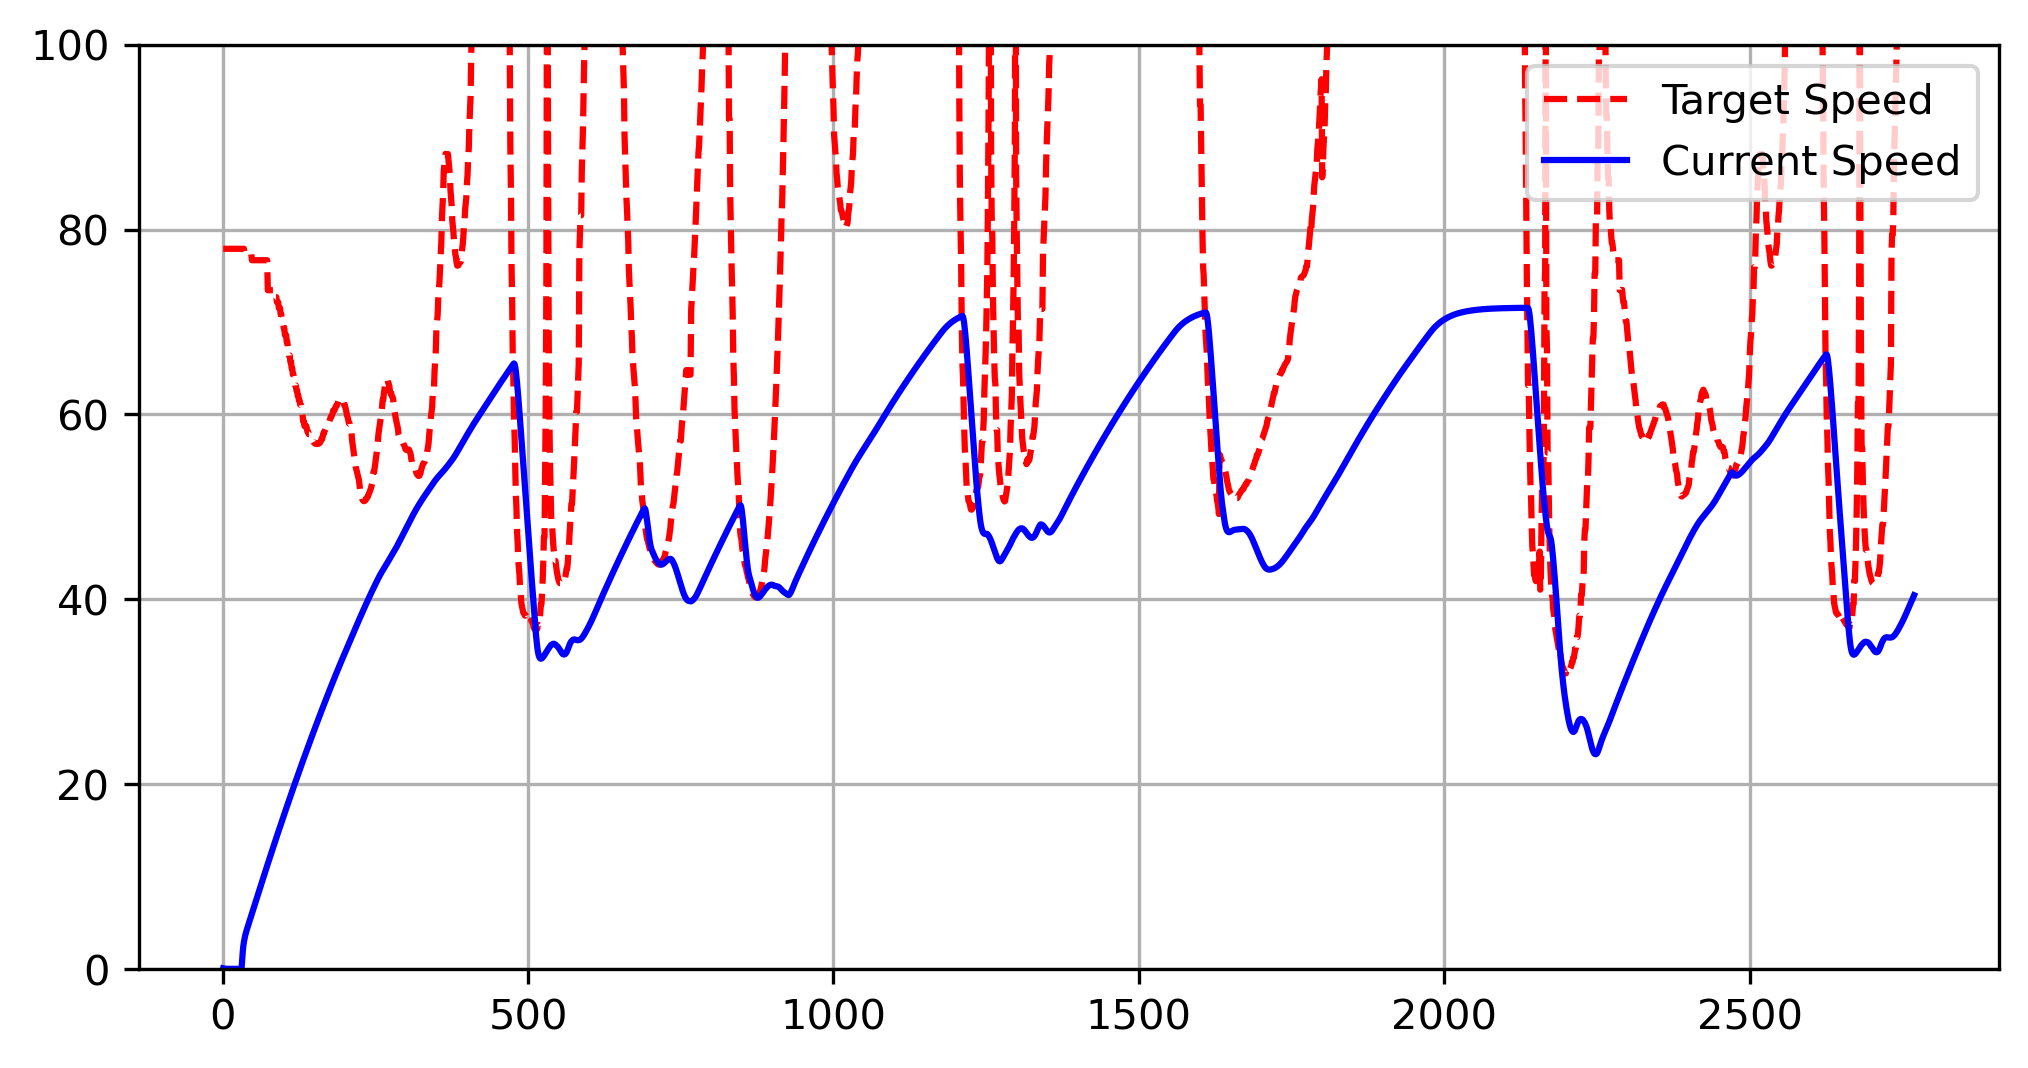
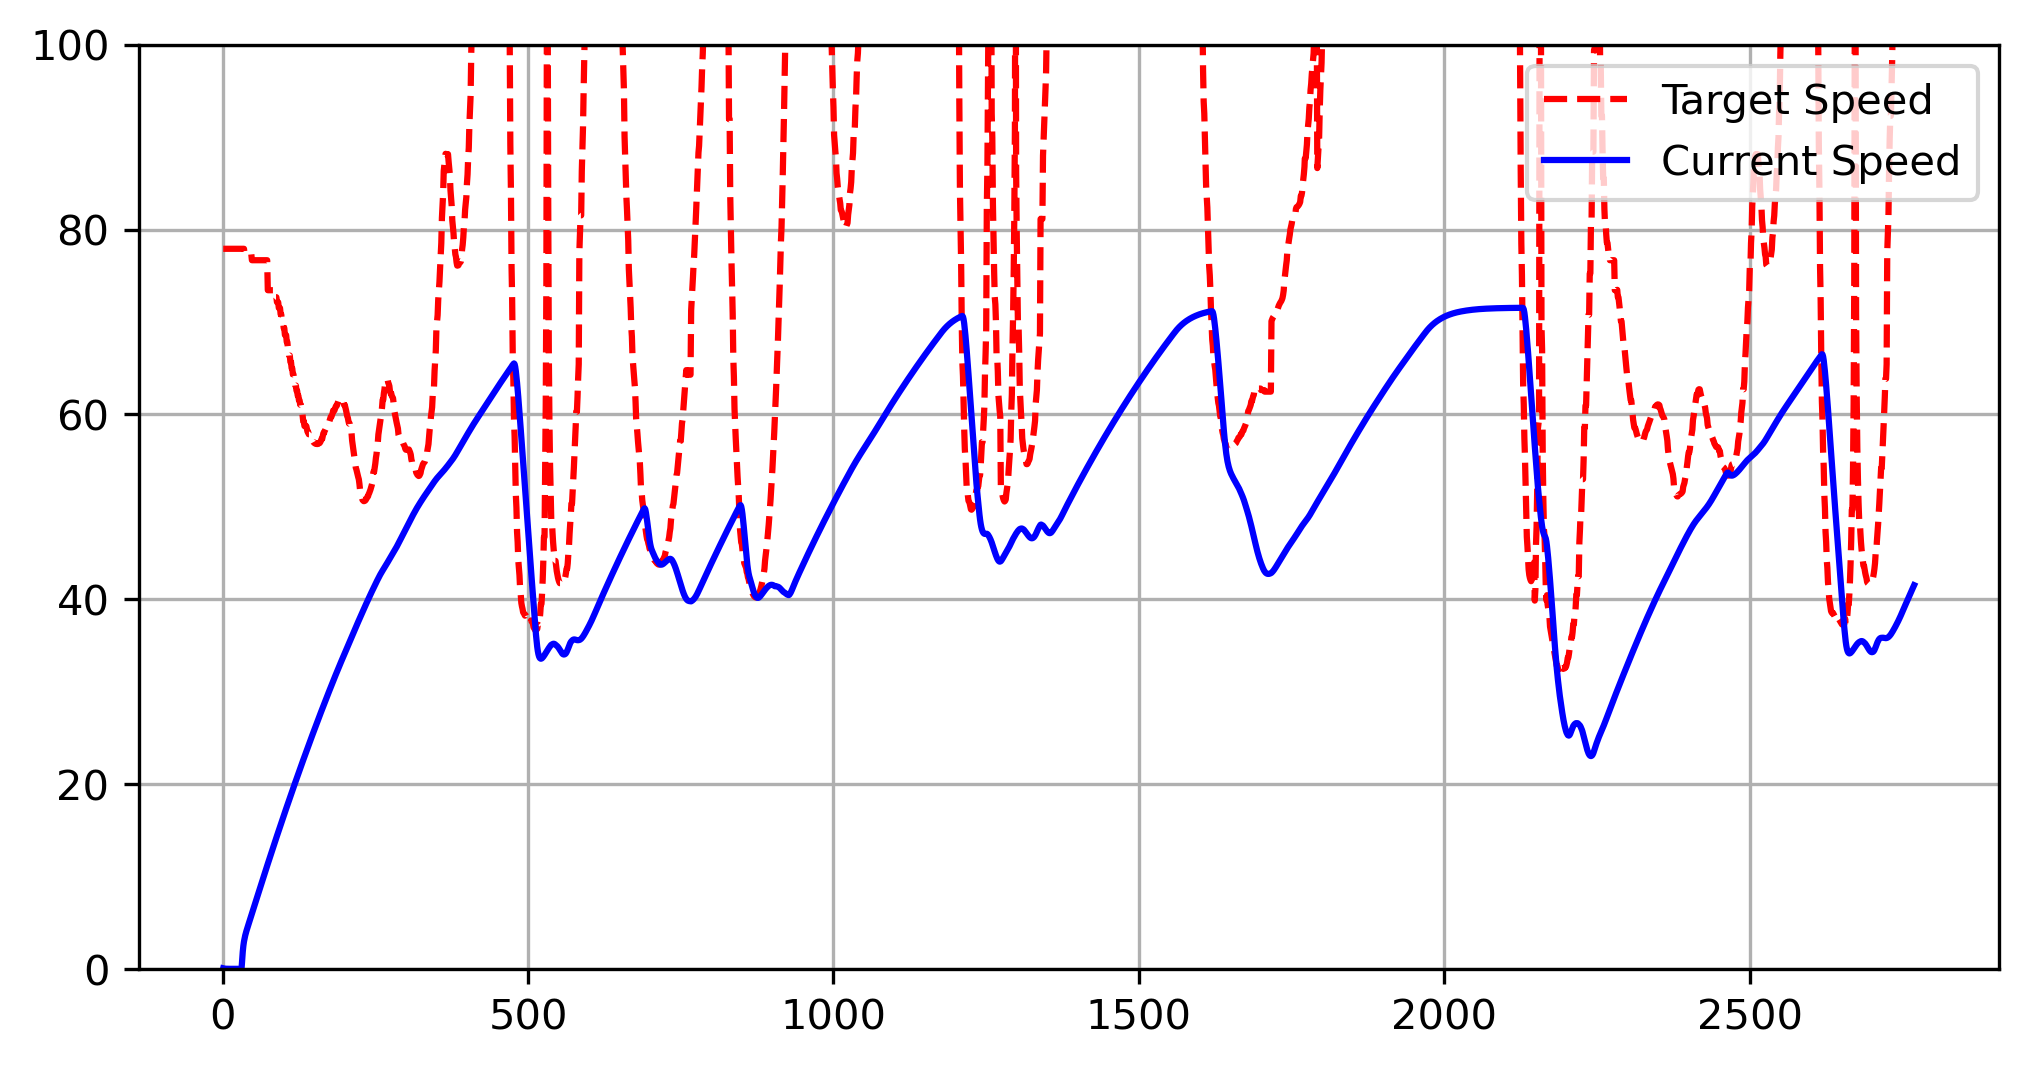
327.1 and clean up

diff --git a/competition_code/util/Calculator.py b/competition_code/util/Calculator.py
@@ -1,9 +1,8 @@
 import numpy as np
-from util.WaypointCalculator import WaypointCalculator
 from util.MathUtil import MathUtil
 from util.Tuner import Tuner
 
-class MovementController:
+class Calculator:
 
     @staticmethod
     def get_target_heading(velocity, vehicle, loc):
@@ -18,5 +17,29 @@ class MovementController:
         current_waypoint = vehicle.maneuverable_waypoints[vehicle.current_waypoint_idx]
         spd_look_ahead = np.clip(int(velocity), 33, 53)
         speed_wp = [vehicle.maneuverable_waypoints[(vehicle.current_waypoint_idx + spd_look_ahead) % len(vehicle.maneuverable_waypoints)], vehicle.maneuverable_waypoints[(vehicle.current_waypoint_idx + spd_look_ahead+20) % len(vehicle.maneuverable_waypoints)]]
-        curvature = WaypointCalculator.curvature(current_waypoint, speed_wp[0], speed_wp[1])
+        curvature = Calculator.curvature(current_waypoint, speed_wp[0], speed_wp[1])
         return np.clip(7.62945* ((curvature)**-0.300321), 0.0, 100.0)
+
+    @staticmethod
+    def vector_to_waypoint(wp_1, wp_2):
+        return (wp_1.location - wp_2.location)[:2]
+    
+    @staticmethod
+    def hdg(vector):
+        return np.arctan2(vector[1], vector[0])
+        
+    @staticmethod
+    def dist(wp_1, wp_2):
+        return np.linalg.norm((wp_1.location - wp_2.location)[:2])
+        
+    @staticmethod
+    def curvature(wp_0, wp_1, wp_2):
+        vector_wp_1 = Calculator.vector_to_waypoint(wp_1, wp_0)
+        vector_wp_2 = Calculator.vector_to_waypoint(wp_2, wp_1)
+        hdg_wp_1 = Calculator.hdg(vector_wp_1)
+        hdg_wp_2 = Calculator.hdg(vector_wp_2)
+        first_element_dist = Calculator.dist(wp_1, wp_0)
+        second_element_dist = Calculator.dist(wp_1, wp_2)
+        heading_diff = MathUtil.normalize_rad(hdg_wp_2 - hdg_wp_1)
+        curvature = abs(heading_diff) / (first_element_dist + second_element_dist)
+        return curvature

diff --git a/competition_code/submission.py b/competition_code/submission.py
@@ -6,10 +6,9 @@ Please do not change anything else but fill out the to-do sections.
 from typing import List, Tuple, Dict, Optional
 import roar_py_interface
 import numpy as np
-import matplotlib.pyplot as plt
 from util.MathUtil import MathUtil
 from util.PIDController import PIDController
-from util.MovementController import MovementController
+from util.Calculator import Calculator
 from util.Tuner import Tuner
 from util.Plotter import Plotter
 
@@ -76,17 +75,18 @@ class RoarCompetitionSolution:
             self.maneuverable_waypoints
         ) 
 
-        target_speed = MovementController.get_target_speed(vehicle_velocity_norm, self)
+        target_speed = Calculator.get_target_speed(vehicle_velocity_norm, self)
         target_speed = Tuner.tune_target_speed(target_speed, self.current_waypoint_idx)
 
         self.speed_controller.set_setpoint(target_speed)
         throttle_control = self.speed_controller.calculate(vehicle_velocity_norm)
         throttle_normalized = np.clip(throttle_control, 0.0, 1.0)
         brake_normalized = np.clip(-throttle_control, 0.0, 1.0)
+        brake_normalized = Tuner.tune_brake(brake_normalized, self.current_waypoint_idx)
 
         self.steer_controller.kp = Tuner.tune_steer_kP(target_speed)
 
-        target_steer = MovementController.get_target_heading(vehicle_velocity_norm, self, vehicle_location)
+        target_steer = Calculator.get_target_heading(vehicle_velocity_norm, self, vehicle_location)
         current_steer = MathUtil.normalize_rad(vehicle_rotation[2])
         target_steer = MathUtil.normalize_continuous_target_rads(current_steer, target_steer)
 

diff --git a/competition_code/util/Tuner.py b/competition_code/util/Tuner.py
@@ -5,8 +5,7 @@ class Tuner:
     @staticmethod
     def tune_target_speed(target_speed, waypoint):
         if (1300 <= waypoint <= 1325 or 1400 <= waypoint <= 1425): return target_speed * 10/7
-        if (1825 <= waypoint < 1940): return max(target_speed * 8/7, 48)
-        if (1940 <= waypoint <= 2000): return target_speed * 10/7
+        if (1750 <= waypoint <= 2000): return max(target_speed * 11/7, 45)
         if (745 <= waypoint <= 870): return target_speed * 8/7
         if (waypoint <= 510 or waypoint >= 2550): return target_speed * 38/35
         return target_speed * 44/35
@@ -19,12 +18,18 @@ class Tuner:
     @staticmethod
     def tune_steer(steer, waypoint):
         if (840 <= waypoint <= 860): return max(steer * 2.0, 0)
-        return steer 
+        if (1875 <= waypoint <= 1975): return np.clip(steer, -0.03, 0.03)
+        return steer
 
     @staticmethod
     def tune_steer_lookahead(lookahead, waypoint):
-        if (1300 <= waypoint <= 1325 or 1400 <= waypoint <= 1425): return lookahead + 7
-        if (1800 <= waypoint <= 1900 or 745 <= waypoint < 838): return lookahead + 4
+        if (1300 <= waypoint <= 1325 or 1400 <= waypoint <= 1425 or 1800 <= waypoint <= 1900): return lookahead + 7
+        if (745 <= waypoint < 838): return lookahead + 4
         if (450 <= waypoint < 490 or 2550 <= waypoint <= 2600): return lookahead + 2
         return lookahead  
+
+    @staticmethod
+    def tune_brake(brake, waypoint):
+        if (1780 <= waypoint <= 1820): return brake * 0.2
+        return brake
     

diff --git a/competition_code/waypoints/plot_waypoints.py b/competition_code/waypoints/plot_waypoints.py
@@ -393,12 +393,6 @@ class TrackEditor:
         if event.inaxes != self.ax or event.button != 1: 
             return
         
-        # --- NEW CODE: Print the index of any clicked waypoint ---
-        clicked_idx = self.get_closest_point(event, ignore_mode=True)
-        if clicked_idx is not None:
-            print(f"Path {self.active_track_idx + 1} Waypoint Index: {clicked_idx}")
-        # ---------------------------------------------------------
-
         self._ind = self.get_closest_point(event)
         
         if self._ind is not None:
@@ -818,8 +812,8 @@ class TrackEditor:
 
 if __name__ == "__main__":
     REFERENCE_TRACK = "competition_code/waypoints/Monza.npz"
-    EDITABLE_PATH_1 = "competition_code/waypoints/theWaypoints.npz"
-    EDITABLE_PATH_2 = "competition_code/waypoints/waypointsPrimary.npz"
+    EDITABLE_PATH_1 = "competition_code/waypoints/output_theWaypoints.npz"
+    EDITABLE_PATH_2 = "competition_code/waypoints/output_theWaypoints.npz"
 
     if os.path.exists(REFERENCE_TRACK) and os.path.exists(EDITABLE_PATH_1) and os.path.exists(EDITABLE_PATH_2):
         print(f"Loading {REFERENCE_TRACK} as boundaries...")
